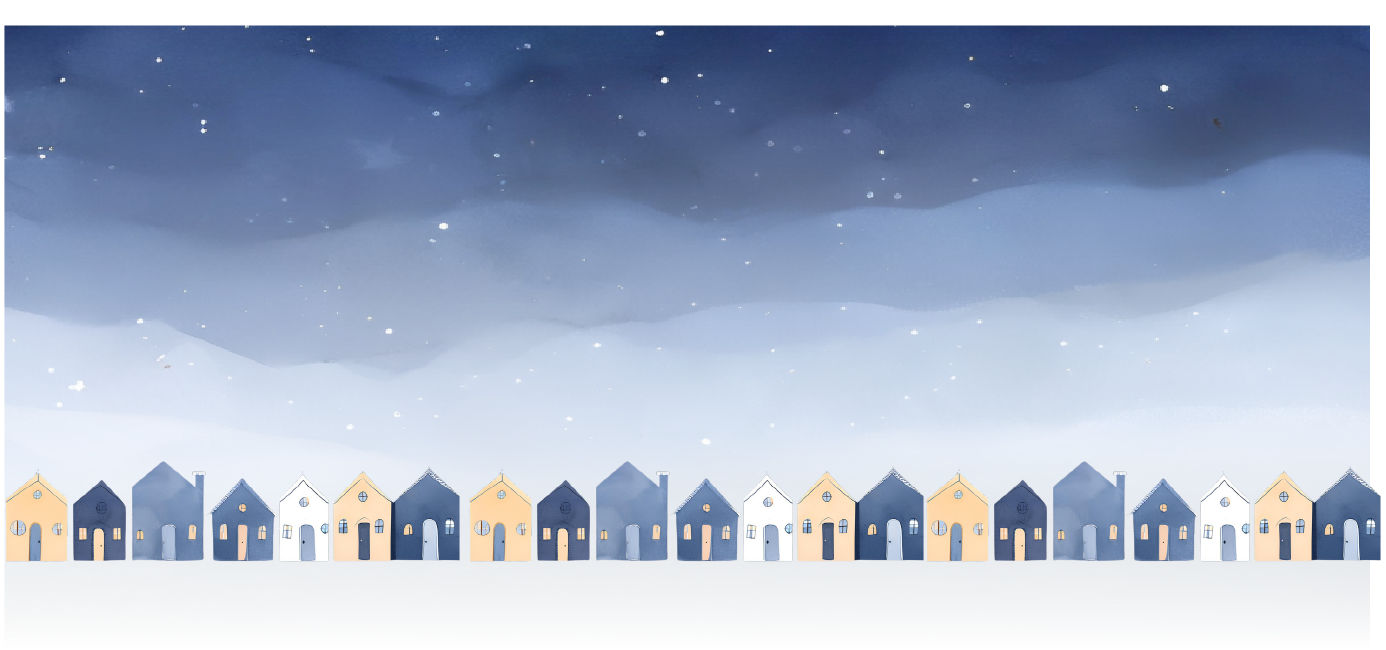
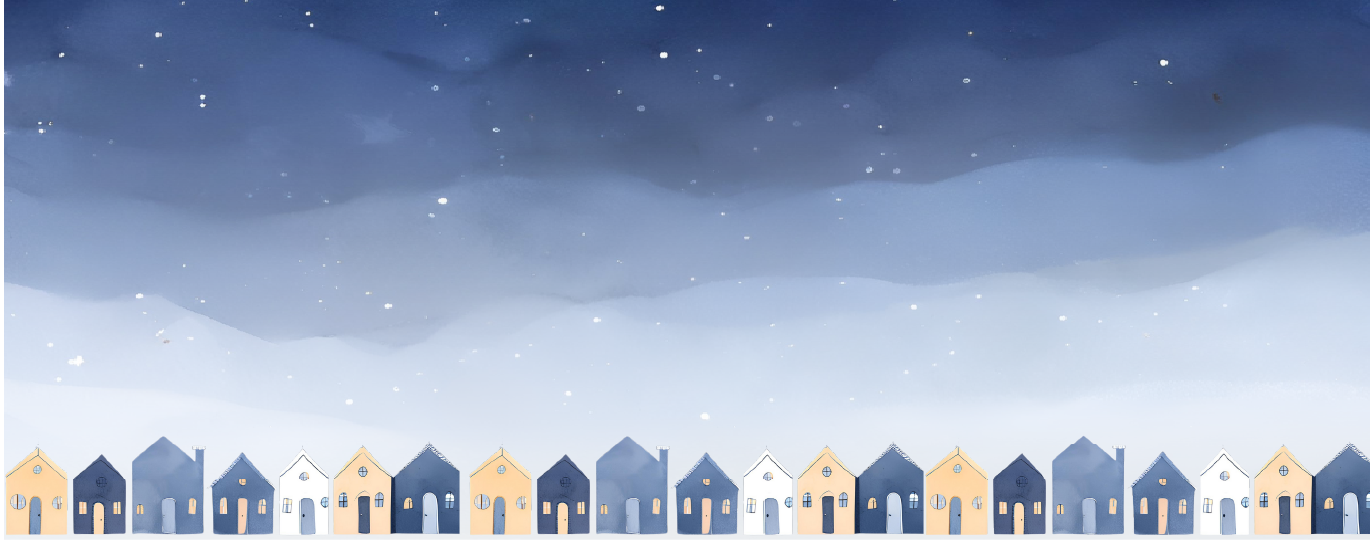
iROASOBi_16

diff --git a/index.html b/index.html
@@ -22,7 +22,7 @@
 </head>
 
 <body class="night">
-    <button id="toggleTheme" style="position: fixed;">ナイトモード切替</button>
+    <!-- <button id="toggleTheme" style="position: fixed;">ナイトモード切替</button> -->
     <div class="main_visual" id="header">
         <div class="main_visual_morning_pc">
             <img src="./image/morning/background_morning.svg" alt="昼の空">
@@ -308,11 +308,7 @@
             </ul>
         </div>
     </footer>
-
-
-
     <script src="js/script.js"></script>
-
     <script>
         var splide = new Splide('.splide', {
             type: 'loop',
@@ -354,6 +350,15 @@
     <script>
         document.getElementById("toggleTheme").addEventListener("click", function () {
             document.body.classList.toggle("night");
+        });
+    </script>
+    <script>
+        document.addEventListener("DOMContentLoaded", function () {
+            const message = document.querySelector(".main_visual_message");
+
+            if (document.body.classList.contains("night")) {
+                message.textContent = "夜が明けると、世界が色づく";
+            }
         });
     </script>
 </body>

diff --git a/css/index.css b/css/index.css
@@ -798,8 +798,11 @@ header {
 /* nightモード */
 body.night {
 
-
-
+    .main_visual_morning_pc {
+        content: url("../image/night/photo/main_visual_night.png");
+        width: 115%;
+        height: auto;
+    }
 
     .scroll-down,
     .pagination {
@@ -809,6 +812,10 @@ body.night {
     .wavy-text_arrow {
         border-left: 1px solid #fcf2e5;
         border-bottom: 1px solid #fcf2e5;
+    }
+
+    .about_me {
+        margin-top: 100px;
     }
 
     .tape {
